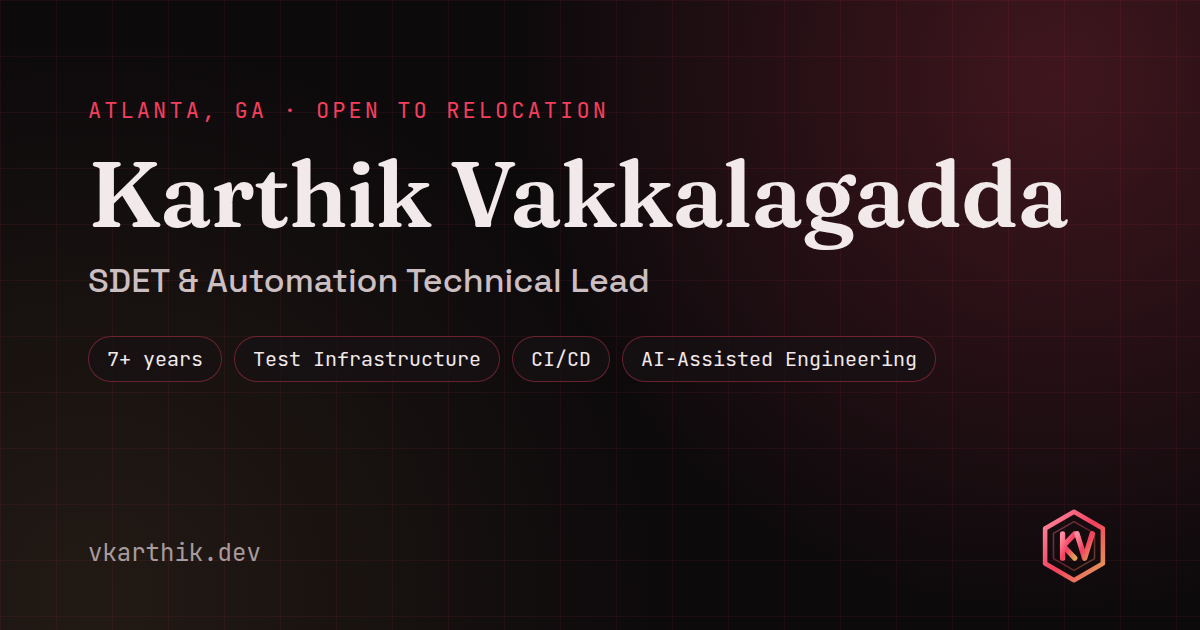
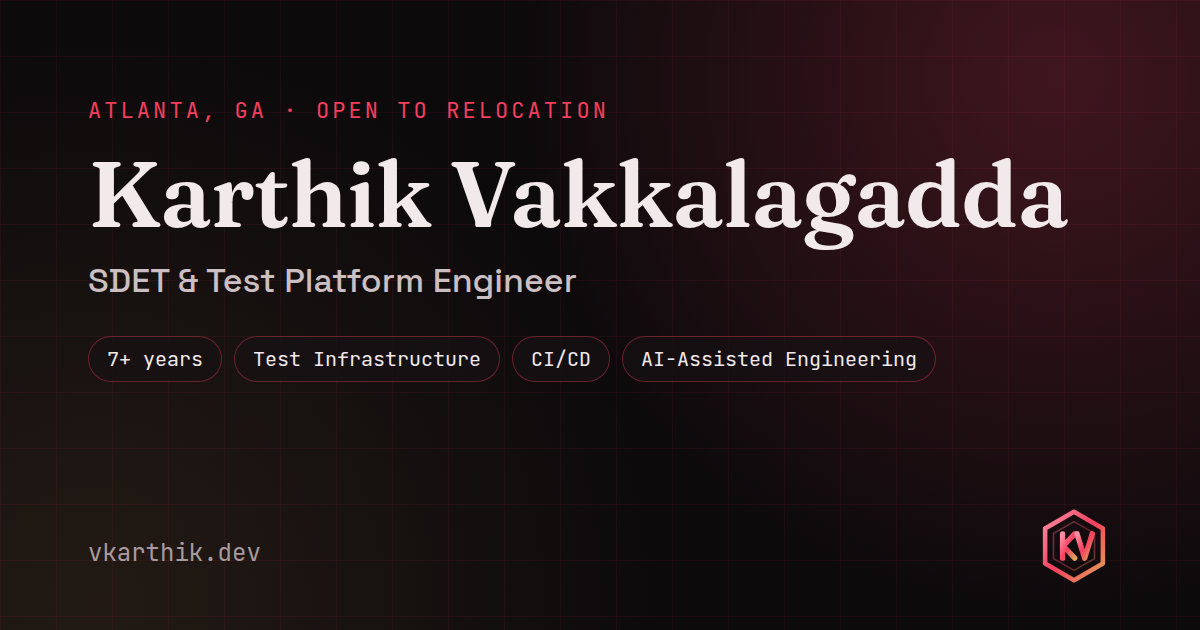
Retitle current role to SDET & Test Platform Engineer
Replace "Automation Technical Lead" in the page title, social/meta tags,
JSON-LD, About intro and the current role, and regenerate og.png. Drop
the team-size mention from the About intro. Earlier roles keep their
original titles.

Claude-Session: https://claude.ai/code/session_01SXPTGDyKskrWLjjYAbuJVV

Changed region(s): [[0.1542, 0.4222, 0.555, 0.4825]]

diff --git a/index.html b/index.html
@@ -3,7 +3,7 @@
   <head>
     <meta charset="UTF-8" />
     <meta name="viewport" content="width=device-width, initial-scale=1.0" />
-    <title>Karthik Vakkalagadda — SDET &amp; Automation Technical Lead</title>
+    <title>Karthik Vakkalagadda — SDET &amp; Test Platform Engineer</title>
     <meta
       name="description"
       content="I build engineering systems that make software safer, faster, and easier to ship. 7+ years building test automation frameworks and CI/CD infrastructure for multi-brand digital ordering, POS, and payments platforms."
@@ -20,7 +20,7 @@
     <meta property="og:url" content="%SITE_URL%/" />
     <meta
       property="og:title"
-      content="Karthik Vakkalagadda — SDET &amp; Automation Technical Lead"
+      content="Karthik Vakkalagadda — SDET &amp; Test Platform Engineer"
     />
     <meta
       property="og:description"
@@ -31,14 +31,14 @@
     <meta property="og:image:height" content="630" />
     <meta
       property="og:image:alt"
-      content="Karthik Vakkalagadda — SDET and Automation Technical Lead, Atlanta GA"
+      content="Karthik Vakkalagadda — SDET and Test Platform Engineer, Atlanta GA"
     />
 
     <!-- Twitter -->
     <meta name="twitter:card" content="summary_large_image" />
     <meta
       name="twitter:title"
-      content="Karthik Vakkalagadda — SDET &amp; Automation Technical Lead"
+      content="Karthik Vakkalagadda — SDET &amp; Test Platform Engineer"
     />
     <meta
       name="twitter:description"
@@ -52,7 +52,7 @@
         "@type": "Person",
         "name": "Karthik Vakkalagadda",
         "url": "%SITE_URL%/",
-        "jobTitle": "SDET / Automation Technical Lead",
+        "jobTitle": "SDET & Test Platform Engineer",
         "description": "I build engineering systems that make software safer, faster, and easier to ship. 7+ years building test automation frameworks and CI/CD infrastructure for multi-brand digital ordering, POS, and payments platforms across Web, Mobile, and API.",
         "address": {
           "@type": "PostalAddress",
@@ -249,12 +249,12 @@
             </div>
             <div class="about-text">
               <p>
-                I'm an <strong>SDET / Automation Technical Lead</strong> at
-                <strong>Capgemini (Client: Inspire Brands)</strong> in Atlanta, leading
+                I'm an <strong>SDET &amp; Test Platform Engineer</strong> at
+                <strong>Capgemini (Client: Inspire Brands)</strong> in Atlanta, owning
                 automation standards and CI/CD test execution across Sonic, Buffalo Wild
-                Wings, Dunkin' and Arby's with a 4–6 person US/India team. I started by
-                authoring most of the Java framework for Arby's and Buffalo Wild Wings as
-                a first-year engineer, and owned Web and API automation within 18 months.
+                Wings, Dunkin' and Arby's. I started by authoring most of the Java
+                framework for Arby's and Buffalo Wild Wings as a first-year engineer, and
+                owned Web and API automation within 18 months.
               </p>
               <p>
                 <strong>The part I actually enjoy is the diagnosis.</strong> The

diff --git a/src/data.ts b/src/data.ts
@@ -32,11 +32,11 @@ export interface Project {
 
 export const experiences: Experience[] = [
   {
-    role: 'SDET / Automation Technical Lead — Multi-Brand Digital Ordering & POS Platforms',
+    role: 'SDET & Test Platform Engineer — Multi-Brand Digital Ordering & POS Platforms',
     company: 'Capgemini (Client: Inspire Brands) — Atlanta, GA',
     period: 'Apr 2026 – Present',
     bullets: [
-      'Own automation standards and framework direction across four Inspire Brands properties (Sonic, Buffalo Wild Wings, Dunkin’, Arby’s), leading CI/CD test execution end to end.',
+      'Own automation standards and framework direction across four Inspire Brands properties (Sonic, Buffalo Wild Wings, Dunkin’, Arby’s), and drive CI/CD test execution end to end.',
       'Rebuilt Sonic’s regression suite on AI agent skills and prompt-driven test generation, with human review gates before any suite is trusted.',
       'Designed resiliency and circuit-breaker testing for Dunkin’s loyalty platform under induced failure conditions.',
       'Led contract, regression, and integration validation for Buffalo Wild Wings’ Business Service Layer migration.',
